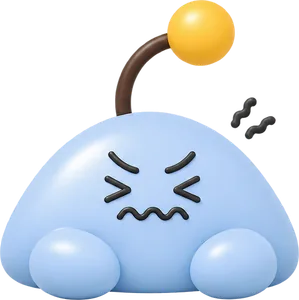
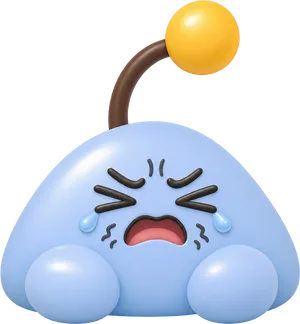
すごく つらいの顔を差し替え、部位を「いたい」のときだけ聞き、README とログを v3 に合わせる
- つらさの「すごく つらい」を、かずまさんの口を開けて泣いている顔にする（ほかの顔と同じやり方で縮めた WebP）
- 「どこが へん？」は、症状画面.html と同じく主症状で「いたい」を選んだときだけ出す。
  「いたい」を外したら部位の答えも消し、送らない。へんなところを必須から任意にする
  （unknowns.test.ts の不明の件数のテスト2件を合わせる）。バーの区切りの中の数も合わせる
- AI 利用ログに、Google Antigravity・Google Stitch と、新しい顔の画像生成 AI（ツール名は確認中）を足す
- README の画面の流れ、主な機能、送るもの、テストの件数（124件）、AI の利用を v3 に合わせる
- lib/summary は変えない

diff --git a/lib/intake/flow.test.ts b/lib/intake/flow.test.ts
@@ -3,9 +3,13 @@ import assert from "node:assert/strict";
 import { describe, test } from "node:test";
 import { flowSteps, progressOf } from "@/lib/intake/flow";
 
+// 「いたい」を選んだとき（「どこが へん？」を出す）と、選ばなかったとき
+const withPain = (detailCount: number) => ({ detailCount, asksBody: true });
+const withoutPain = (detailCount: number) => ({ detailCount, asksBody: false });
+
 describe("画面の順番", () => {
   test("保護者は「お子さんのこと」と「家族からの記録」の2画面で、そのあと見直し", () => {
-    const keys = flowSteps("able", 1).map((item) => item.key);
+    const keys = flowSteps("able", withPain(1)).map((item) => item.key);
     assert.deepEqual(keys.slice(keys.indexOf("familyProfile"), keys.indexOf("review") + 1), [
       "familyProfile",
       "familyRecord",
@@ -14,7 +18,7 @@ describe("画面の順番", () => {
   });
 
   test("「できる」：症状をえらぶ → 詳細の画面（選んだ数だけ）→ どこが へん → つらさ → 区切り", () => {
-    const keys = flowSteps("able", 3).map((item) => item.key);
+    const keys = flowSteps("able", withPain(3)).map((item) => item.key);
     assert.deepEqual(keys.slice(keys.indexOf("ability"), keys.indexOf("familyProfile") + 1), [
       "ability",
       "patientFeeling",
@@ -29,13 +33,13 @@ describe("画面の順番", () => {
   });
 
   test("詳細の画面は、数を超える枠を通らない（主症状を選ばなくても「そのほか」の1つは通る）", () => {
-    const keys = flowSteps("able", 1).map((item) => item.key);
+    const keys = flowSteps("able", withPain(1)).map((item) => item.key);
     assert.equal(keys.includes("patientDetail1"), true);
     assert.equal(keys.includes("patientDetail2"), false);
   });
 
   test("「難しい」：こどもの画面（詳細の画面と区切りも）を飛ばす", () => {
-    const keys = flowSteps("difficult", 3).map((item) => item.key);
+    const keys = flowSteps("difficult", withPain(3)).map((item) => item.key);
     for (const skipped of [
       "patientFeeling",
       "patientDetail1",
@@ -49,45 +53,63 @@ describe("画面の順番", () => {
   });
 });
 
+describe("「どこが へん？」は「いたい」を選んだときだけ", () => {
+  test("「いたい」を選ばなかったら、詳細の画面のあとは「どれくらい つらい」", () => {
+    const keys = flowSteps("able", withoutPain(2)).map((item) => item.key);
+    assert.equal(keys.includes("patientBody"), false);
+    assert.equal(keys[keys.indexOf("patientDetail2") + 1], "patientDiscomfort");
+  });
+
+  test("「症状を詳しく」の区切りの中の数も変わる（詳細2つだけ）", () => {
+    assert.deepEqual(progressOf("patientDetail2", "able", withoutPain(2))?.inSegment, { index: 2, count: 2 });
+    assert.deepEqual(progressOf("patientDetail2", "able", withPain(2))?.inSegment, { index: 2, count: 3 });
+  });
+
+  test("「いたい」を選ばず、詳細が「そのほか」の1つだけなら、区切りの中の位置は数えない", () => {
+    assert.equal(progressOf("patientDetail1", "able", withoutPain(1))?.inSegment, null);
+    assert.equal(progressOf("patientDetail1", "able", withoutPain(1))?.current, 3);
+  });
+});
+
 describe("進み具合のバー", () => {
   test("「できる」は7区切り（誰が答えるか／症状を選ぶ／症状を詳しく／つらさ／基本情報／家族からの記録／確認）", () => {
-    assert.deepEqual(progressOf("ability", "able", 2)?.total, 7);
-    assert.deepEqual(progressOf("ability", "able", 2)?.current, 1);
-    assert.deepEqual(progressOf("patientFeeling", "able", 2)?.current, 2);
-    assert.deepEqual(progressOf("patientDetail1", "able", 2)?.current, 3);
-    assert.deepEqual(progressOf("patientBody", "able", 2)?.current, 3);
-    assert.deepEqual(progressOf("patientDiscomfort", "able", 2)?.current, 4);
-    assert.deepEqual(progressOf("familyProfile", "able", 2)?.current, 5);
-    assert.deepEqual(progressOf("familyRecord", "able", 2)?.current, 6);
-    assert.deepEqual(progressOf("review", "able", 2)?.current, 7);
+    assert.deepEqual(progressOf("ability", "able", withPain(2))?.total, 7);
+    assert.deepEqual(progressOf("ability", "able", withPain(2))?.current, 1);
+    assert.deepEqual(progressOf("patientFeeling", "able", withPain(2))?.current, 2);
+    assert.deepEqual(progressOf("patientDetail1", "able", withPain(2))?.current, 3);
+    assert.deepEqual(progressOf("patientBody", "able", withPain(2))?.current, 3);
+    assert.deepEqual(progressOf("patientDiscomfort", "able", withPain(2))?.current, 4);
+    assert.deepEqual(progressOf("familyProfile", "able", withPain(2))?.current, 5);
+    assert.deepEqual(progressOf("familyRecord", "able", withPain(2))?.current, 6);
+    assert.deepEqual(progressOf("review", "able", withPain(2))?.current, 7);
   });
 
   test("「症状を詳しく」には詳細の画面と「どこが へん？」が入り、中の位置を数える", () => {
     // 詳細の画面が2つなら、区切りの中は3画面（詳細2つ＋どこが へん）
-    assert.deepEqual(progressOf("patientDetail1", "able", 2)?.inSegment, { index: 1, count: 3 });
-    assert.deepEqual(progressOf("patientDetail2", "able", 2)?.inSegment, { index: 2, count: 3 });
-    assert.deepEqual(progressOf("patientBody", "able", 2)?.inSegment, { index: 3, count: 3 });
+    assert.deepEqual(progressOf("patientDetail1", "able", withPain(2))?.inSegment, { index: 1, count: 3 });
+    assert.deepEqual(progressOf("patientDetail2", "able", withPain(2))?.inSegment, { index: 2, count: 3 });
+    assert.deepEqual(progressOf("patientBody", "able", withPain(2))?.inSegment, { index: 3, count: 3 });
   });
 
   test("画面が1つだけの区切りでは、中の位置を数えない", () => {
-    assert.equal(progressOf("patientFeeling", "able", 2)?.inSegment, null);
-    assert.equal(progressOf("familyRecord", "able", 2)?.inSegment, null);
+    assert.equal(progressOf("patientFeeling", "able", withPain(2))?.inSegment, null);
+    assert.equal(progressOf("familyRecord", "able", withPain(2))?.inSegment, null);
   });
 
   test("「難しい」はこどもの3区切りを飛ばして4区切り。基本情報が2、家族からの記録が3、確認が4", () => {
-    assert.deepEqual(progressOf("ability", "difficult", 1), { total: 4, current: 1, inSegment: null });
-    assert.deepEqual(progressOf("familyProfile", "difficult", 1), { total: 4, current: 2, inSegment: null });
-    assert.deepEqual(progressOf("familyRecord", "difficult", 1), { total: 4, current: 3, inSegment: null });
-    assert.deepEqual(progressOf("review", "difficult", 1), { total: 4, current: 4, inSegment: null });
+    assert.deepEqual(progressOf("ability", "difficult", withPain(1)), { total: 4, current: 1, inSegment: null });
+    assert.deepEqual(progressOf("familyProfile", "difficult", withPain(1)), { total: 4, current: 2, inSegment: null });
+    assert.deepEqual(progressOf("familyRecord", "difficult", withPain(1)), { total: 4, current: 3, inSegment: null });
+    assert.deepEqual(progressOf("review", "difficult", withPain(1)), { total: 4, current: 4, inSegment: null });
   });
 
   test("まだ選んでいないときの確認の画面は、「できる」と同じ7区切りで数える", () => {
-    assert.deepEqual(progressOf("ability", null, 1), { total: 7, current: 1, inSegment: null });
+    assert.deepEqual(progressOf("ability", null, withPain(1)), { total: 7, current: 1, inSegment: null });
   });
 
   test("ようこそ、区切り、医師、終了の画面にはバーを出さない", () => {
     for (const step of ["welcome", "patientBreak", "doctor", "end"] as const) {
-      assert.equal(progressOf(step, "able", 1), null, step);
+      assert.equal(progressOf(step, "able", withPain(1)), null, step);
     }
   });
 });

diff --git a/components/intake/IntakeFlow.tsx b/components/intake/IntakeFlow.tsx
@@ -30,6 +30,7 @@ import {
   progressOf,
   stepIndex,
   stepInfo,
+  type ChildFlow,
   type Step,
   type StepGroup,
 } from "@/lib/intake/flow";
@@ -81,13 +82,17 @@ type FlowState = IntakeState & {
   detailReaction: DetailReaction; // 詳細の画面で最後に押したもの（キャラクターの返事に使う）
 };
 
-// 詳細の画面の数（選んだ主症状の画面と「そのほか」）
-function detailCount(state: FlowState): number {
-  return symptomPhases(state.symptoms).length;
+// こどもの答えで変わる画面。詳細の画面の数（選んだ主症状の画面と「そのほか」）と、
+// 「どこが へん？」を出すか（主症状で「いたい」を選んだときだけ）
+function childFlow(state: FlowState): ChildFlow {
+  return {
+    detailCount: symptomPhases(state.symptoms).length,
+    asksBody: state.symptoms.categories.includes("pain"),
+  };
 }
 
 function stepsOf(state: FlowState) {
-  return flowSteps(state.canSelfReport, detailCount(state));
+  return flowSteps(state.canSelfReport, childFlow(state));
 }
 
 function createUnansweredPatientAnswers(): PatientAnswers {
@@ -282,7 +287,7 @@ export function IntakeFlow() {
   const previous = previousStep(state);
   const group = stepInfo(state.step).group;
   const audience = AUDIENCE[group];
-  const progress = progressOf(state.step, state.canSelfReport, detailCount(state));
+  const progress = progressOf(state.step, state.canSelfReport, childFlow(state));
   const guide = guideFor(state.step, {
     patient: state.patient,
     family: state.family,
@@ -298,6 +303,7 @@ export function IntakeFlow() {
 
   // 主症状と詳しい答えを変える。
   // Gemini に送る主症状（patient.feelings）は、ここで今のサーバーの選択肢に置きかえて入れる。
+  // 「いたい」を外したら、部位の答えも消す（部位は「いたい」のときだけ聞き、送る）。
   // 主症状の選び方が変わったら、詳細の画面の数が変わるので、先の画面は「まだ通っていない」扱いに戻す
   const setSymptoms = (symptoms: PatientSymptoms) =>
     setState((prev) => ({
@@ -306,6 +312,9 @@ export function IntakeFlow() {
       patient: {
         ...prev.patient,
         feelings: toSelectionAnswer(categoryFeelings(symptoms.categories)),
+        bodyParts: symptoms.categories.includes("pain")
+          ? prev.patient.bodyParts
+          : { respondent: "patient", status: "unanswered" },
       },
       reachedIndex:
         symptoms.categories.join() === prev.symptoms.categories.join()

diff --git a/lib/intake/flow.ts b/lib/intake/flow.ts
@@ -42,7 +42,7 @@ export type StepInfo = {
   segment: ProgressSegment | null; // バーのどの区切りか。バーを出さない画面は null
 };
 
-// 画面の順番。こどもは「症状をえらぶ」→「症状をくわしく」（選んだ数だけ）→「どこが へん」→「どれくらい つらい」
+// 画面の順番。こどもは「症状をえらぶ」→「症状をくわしく」（選んだ数だけ）→「どこが へん」（いたい のときだけ）→「どれくらい つらい」
 export const STEPS: readonly StepInfo[] = [
   { key: "welcome", group: "welcome", fullName: "はじめ", segment: null },
   { key: "ability", group: "ability", fullName: "答えられるかの確認", segment: "respondent" },
@@ -76,15 +76,20 @@ export function detailNumber(step: Step): number {
   return (PATIENT_DETAIL_STEPS as readonly string[]).indexOf(step) + 1;
 }
 
+// こどもの答えで変わる画面。
+// detailCount は詳細の画面の数（選んだ主症状の画面と「そのほか」）。
+// asksBody は「どこが へん？」を出すか（症状画面.html と同じく、主症状で「いたい」を選んだときだけ）
+export type ChildFlow = { detailCount: number; asksBody: boolean };
+
 // この流れで通る画面。
-// 最初に「難しい」を選んだときは、本人の画面（区切りも）を飛ばす。
-// 詳細の画面は、detailCount（選んだ主症状の画面と「そのほか」の数）だけ通る
+// 最初に「難しい」を選んだときは、本人の画面（区切りも）を飛ばす
 export function flowSteps(
   canSelfReport: CanSelfReport,
-  detailCount: number,
+  { detailCount, asksBody }: ChildFlow,
 ): readonly StepInfo[] {
   return STEPS.filter((item) => {
     if (canSelfReport === "difficult" && item.group === "patient") return false;
+    if (item.key === "patientBody") return asksBody;
     const number = detailNumber(item.key);
     return number === 0 || number <= detailCount;
   });
@@ -97,7 +102,7 @@ export function flowSteps(
 export function progressOf(
   step: Step,
   canSelfReport: CanSelfReport,
-  detailCount: number,
+  child: ChildFlow,
 ): {
   total: number;
   current: number;
@@ -105,7 +110,7 @@ export function progressOf(
 } | null {
   const segment = stepInfo(step).segment;
   if (segment === null) return null;
-  const steps = flowSteps(canSelfReport, detailCount);
+  const steps = flowSteps(canSelfReport, child);
   const segments = PROGRESS_SEGMENTS.filter((item) =>
     steps.some((info) => info.segment === item),
   );

diff --git a/lib/intake/unknowns.test.ts b/lib/intake/unknowns.test.ts
@@ -51,7 +51,7 @@ describe("「不明」の数え方", () => {
     assert.deepEqual(unknownKeys(patient, family), []);
   });
 
-  test("何も答えないと、必須の5件が不明になる", () => {
+  test("何も答えないと、必須の4件が不明になる（へんなところは「いたい」のときだけ聞くので任意）", () => {
     assert.deepEqual(
       unknownKeys(
         {
@@ -73,14 +73,14 @@ describe("「不明」の数え方", () => {
           weight: unansweredFamily,
         },
       ),
-      ["bodyParts", "discomfort", "onset", "medications", "allergies"],
+      ["discomfort", "onset", "medications", "allergies"],
     );
   });
 
-  test("「難しい」は本人の2件が不明になる", () => {
+  test("「難しい」は本人のつらさ1件が不明になる（へんなところは任意）", () => {
     assert.deepEqual(
       unknownKeys({ bodyParts: unable, feelings: unable, discomfort: unable }, family),
-      ["bodyParts", "discomfort"],
+      ["discomfort"],
     );
   });
 

diff --git a/lib/intake/options.ts b/lib/intake/options.ts
@@ -111,8 +111,8 @@ export const BODY_PART_DISPLAY: Record<BodyPart, ChoiceDisplay> = {
 };
 
 // 「どれくらい つらい？」の顔の画像（public の下）。言葉は DISCOMFORT_LABELS。
-// 素材の表情は4段階と「わからない」なので、5段階目は線が2本の「><」を仮に使う。
-// かずまさんから5段階目の顔が届いたら、5 の画像だけを差し替える
+// 5（すごく つらい）は、かずまさんが追加した口を開けて泣いている顔
+// （.claude/design-ref/v3/character-very-distressed-strong.png を、ほかの顔と同じやり方で縮めたもの）
 export const DISCOMFORT_FACE_SRC: Record<DiscomfortLevel, string> = {
   1: "/mascot/severity/1.webp",
   2: "/mascot/severity/2.webp",

diff --git a/lib/intake/unknowns.ts b/lib/intake/unknowns.ts
@@ -135,7 +135,8 @@ export function buildPatientRows(
       key: "bodyParts",
       respondent: "patient",
       label: "へんなところ（本人が選んだもの）",
-      required: true,
+      // 部位は、主症状で「いたい」を選んだときだけ聞く（症状画面.html と同じ）ので、任意にする
+      required: false,
       ...describe(patient.bodyParts, neverDontKnow, joinList),
     },
     {

diff --git a/README.md b/README.md
@@ -14,7 +14,10 @@
 
 - **こどもと保護者の答えを分ける：** 1台のスマホで、こどもが答えたあとに保護者が答えます。見直し画面では、こどもの答えを書き換えられません。直すときは「お子さんと一緒に選び直す」で、こどもの画面に戻ります
 - **こどもが答えやすい質問：** 1画面1問で、カードから選びます。カードの絵文字には、必ず言葉を添えています。「どれくらい つらい？」はキャラクターの顔と言葉の5段階です
-- **進み具合と戻り方：** 上の進み具合のバー（1画面に1区切り。「できる」は9区切り、「難しい」は6区切り）と、左上の「もどる」で示します。ブラウザの「戻る」でも同じ画面に戻ります
+- **症状をえらぶ・くわしく：** こどもは主症状を7つ（いたい、きもちわるい、いきがくるしい、せきがでる、かぜっぽい、そのほか、わからない）から選び、選んだ主症状ごとに詳しく答えます（例：「どんなふうに いたい？」ズキズキ・チクチクなど）。最後に「ほかにも きになることは ある？」を聞きます。前に答えたものと同じ意味の選択肢は隠します。文言・選択肢・絵文字は、チームメンバーのデザイン（症状画面）のとおりです
+- **部位は「いたい」のときだけ：** 「どこが へん？」は、主症状で「いたい」を選んだときだけ聞きます
+- **詳しい答えは医師の画面に出すだけ：** 詳しい答えと「ほかに きになること」の答えは Gemini に送らず、見直しと医師の画面（詳しく見る）に言葉で出すだけです
+- **進み具合と戻り方：** 上の進み具合のバー（7区切り：誰が答えるか／症状を選ぶ／症状を詳しく／つらさを選ぶ／基本情報／家族からの記録／確認。「難しい」はこどもの3区切りを飛ばして4区切り）と、左上の「もどる」で示します。「症状を詳しく」の区切りは、中の画面を進んだ分だけ埋まります。ブラウザの「戻る」でも同じ画面に戻ります
 - **キャラクターの案内：** 画面の上の案内は、選んだ内容に応じて決まった文を出すだけです。AI は使いません
 - **医師に見せる画面：** AI の要約と食い違いを中心に出します。元の回答は「詳しく見る」で見られます
 - **食い違いの表示：** こどもの答えと保護者の答えを並べて出します。どちらが正しいかは示しません
@@ -27,16 +30,22 @@
 flowchart TD
   S["起動（約1.5秒。押すと飛ばせる）"] --> A["ようこそ（はじめる）"]
   A --> B["確認<br/>お子さんは、自分で答えられそう？"]
-  B -- "できる" --> C["こども（3画面）<br/>どんな かんじ？／どこが へん？／どれくらい つらい？"]
-  C --> K["こどもの区切り<br/>おつかれさま"]
-  K --> D
-  B -- "難しい" --> D["保護者（4画面）<br/>お子さんのこと（年齢・性別・身長・体重。すべて任意）／一番心配なこと・いつから／熱・食べる飲む／薬・アレルギー・持病"]
-  D --> E["入力内容の見直し"]
+  B -- "できる" --> C1["症状をえらぶ<br/>どんなかんじがする？（7つ、複数選べる）"]
+  C1 --> C2["症状をくわしく<br/>選んだ主症状ごとの画面と、最後の「ほかにも きになることは ある？」"]
+  C2 -- "いたい を選んだ" --> C3["どこが へん？"]
+  C2 -- "いたい を選ばなかった" --> C4
+  C3 --> C4["どれくらい つらい？"]
+  C4 --> K["こどもの区切り<br/>おつかれさま"]
+  K --> D1
+  B -- "難しい" --> D1["お子さんのこと<br/>年齢・性別・身長・体重（すべて任意）"]
+  D1 --> D2["家族からの記録（1ページ）<br/>一番心配なこと・いつから・熱・食べる飲む・持病・アレルギー・薬"]
+  D2 --> E["入力内容の見直し"]
   E --> F["医師に見せる画面"]
   F --> G["終了"]
 ```
 
-- 「難しい」のときは、こどもの3画面と区切りを飛ばします
+- 「難しい」のときは、こどもの画面と区切りを飛ばします
+- 症状をくわしくの画面の数は、選んだ主症状の数で変わります（最大6画面）
 - 進み具合のバーは、確認・こども・保護者・見直しの画面に出します。起動、ようこそ、区切り、医師、終了の画面には出しません
 - 見直し画面では、保護者の項目だけを「編集」で直せます
 
@@ -70,9 +79,13 @@ flowchart LR
 - 別々の選択肢を結びつけること
 - 打ち間違いを直すこと（直さず「」に入れて、入力どおりに書きます）
 
+**送るもの（こども）**
+
+主症状のうち、いたい・きもちわるい・いきがくるしい・せきがでる、部位（「いたい」のとき）、つらさの段階だけを送ります。かぜっぽい・そのほか・わからない は送りません。
+
 **送らないもの**
 
-薬、アレルギー、持病、年齢、体重、身長、性別、名前は Gemini に送りません。
+薬、アレルギー、持病、年齢、体重、身長、性別、名前は Gemini に送りません。こどもの詳しい答え（ズキズキなど）と「ほかに きになること」の答えも送りません（医師の画面に出すだけです）。
 
 ## 安全の考え方
 
@@ -127,16 +140,17 @@ npm test
 
 ## 自動テスト
 
-`npm test` で92件が動きます。Gemini は呼びません。データはすべて架空です。
+`npm test` で124件が動きます。Gemini は呼びません。データはすべて架空です。
 
 | ファイル | 件数 | 対象 |
 |---|---|---|
 | `lib/summary/validate.test.ts` | 40 | 入力チェック（送ってはいけない項目の拒否、文字数の上限、体温の形など） |
 | `lib/summary/input.test.ts` | 14 | Gemini に送るデータの組み立て（性別と身長を送らないことを含む） |
-| `lib/intake/unknowns.test.ts` | 15 | 「不明」の数え方、薬とアレルギーの ⚠ の行、見直しと医師の画面の行の並び |
-| `lib/intake/options.test.ts` | 9 | 選択肢の言葉と絵、部位の色の読みやすさ（4.5:1 以上）、画面で選べる値が入力チェックを通ること |
-| `lib/intake/flow.test.ts` | 6 | 画面の順番と、進み具合のバーの区切り |
-| `lib/intake/guide.test.ts` | 8 | キャラクターの案内の決まった文と表情 |
+| `lib/intake/unknowns.test.ts` | 19 | 「不明」の数え方、薬とアレルギーの ⚠ の行、見直しと医師の画面の行（こどもの詳しい答えを含む） |
+| `lib/intake/options.test.ts` | 8 | 部位の言葉と絵、部位の色の読みやすさ（4.5:1 以上）、画面で選べる値が入力チェックを通ること |
+| `lib/intake/flow.test.ts` | 13 | 画面の順番（「いたい」のときだけ部位を聞くことを含む）と、進み具合のバーの区切り |
+| `lib/intake/guide.test.ts` | 13 | キャラクターの案内の決まった文と表情 |
+| `lib/intake/symptoms.test.ts` | 17 | 症状をえらぶ・くわしくの表と決まり（画面の順番、選び方と消し方、同じ意味を隠す、候補の並び、Gemini に送る主症状） |
 
 受け口（`app/api/summary/route.ts`）、Gemini の呼び出し、画面は、自動テストの対象外です。
 
@@ -144,7 +158,7 @@ npm test
 
 開発に Claude Code を使いました。詳しくは [docs/ai-usage-log.md](docs/ai-usage-log.md) にあります。判断の記録は [docs/decision-log.md](docs/decision-log.md) にあります。
 
-画面のデザインの参考とキャラクターの画像は、チームメンバーが ChatGPT と Codex で作成したものを参考・利用しました。キャラクターの元の画像（PNG）には、OpenAI で作成した記録が埋め込まれていました（`public/mascot/` の画像は、縮めたときにこの記録が外れています）。
+画面のデザインの参考とキャラクターの画像は、チームメンバーが ChatGPT と Codex で作成したものを参考・利用しました。画面デザインの参考には、Google Antigravity と Google Stitch も使いました。つらさの顔の「すごく つらい」は、チームメンバーが画像生成 AI で作りました（ツール名は確認中）。キャラクターの元の画像（PNG）には、OpenAI で作成した記録が埋め込まれていました（`public/mascot/` の画像は、縮めたときにこの記録が外れています）。
 
 ## ライセンス
 
